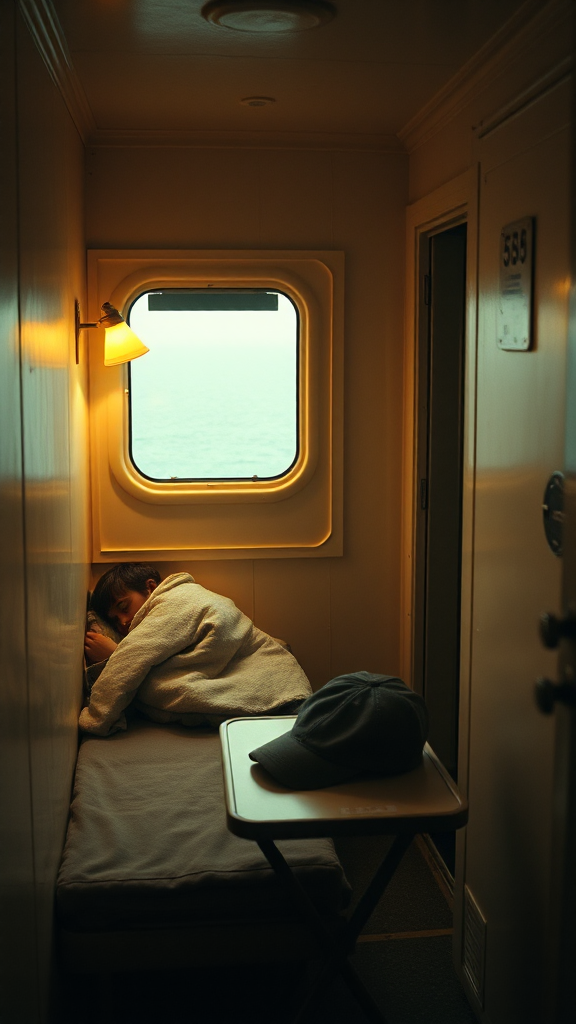
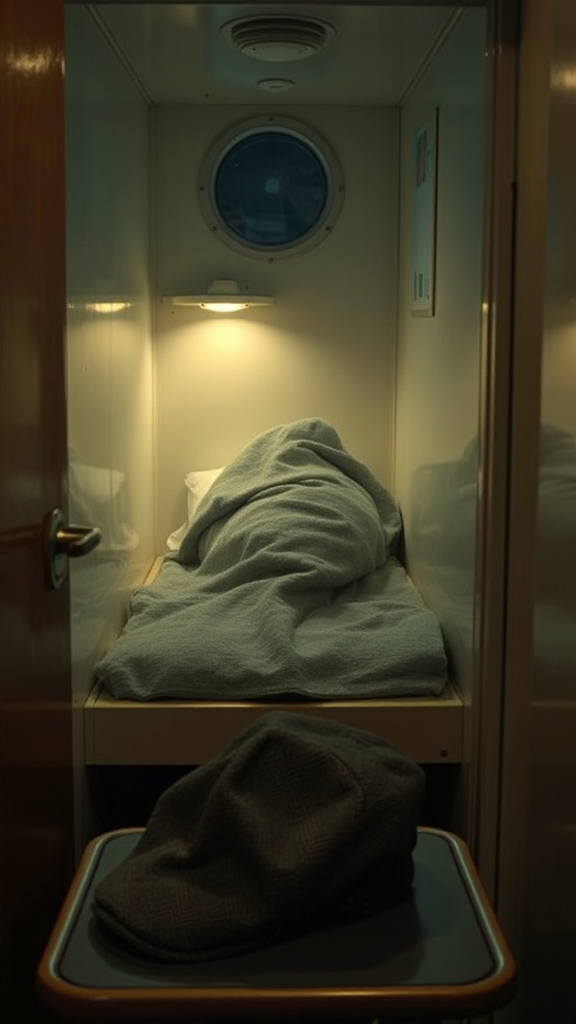
Il traghetto Ep. 1: immagini rifatte e scelte, scritte e correzioni col codice, prompt finali nella storia
Claude-Session: https://claude.ai/code/session_014XUVKwANxcKRkLTerxhK3y

diff --git a/data/horror/ep1_il_traghetto/extra.py b/data/horror/ep1_il_traghetto/extra.py
@@ -346,12 +346,13 @@ def _tessera(big):
 SCRITTE["s04_tessera.png"] = _tessera
 
 
-def cancella_tratti(big, rett, soglia=8):
-    """Toglie dentro il rettangolo solo i tratti più chiari del fondo (le lettere finte), lasciando la targhetta."""
+def cancella_tratti(big, rett, soglia=8, scuri=False):
+    """Toglie dentro il rettangolo solo i tratti più chiari (o più scuri) del fondo: le lettere finte, non la targhetta."""
     x0, y0, x1, y1 = (np.float32(rett) * K).astype(int)
     z = cv2.cvtColor(np.clip(big[y0:y1, x0:x1], 0, 255).astype(np.uint8), cv2.COLOR_BGR2GRAY).astype(np.float32)
     m = np.zeros(big.shape[:2], np.uint8)
-    m[y0:y1, x0:x1] = ((z > np.median(z) + soglia) * 255).astype(np.uint8)
+    tratti = (z < np.median(z) - soglia) if scuri else (z > np.median(z) + soglia)
+    m[y0:y1, x0:x1] = (tratti * 255).astype(np.uint8)
     m = cv2.dilate(m, np.ones((7, 7), np.uint8))
     return cv2.inpaint(np.clip(big, 0, 255).astype(np.uint8), m, 9, cv2.INPAINT_TELEA).astype(np.float32)
 
@@ -384,6 +385,60 @@ def _led_rosso(big, cx, cy, r):
 
 
 SCRITTE["sA_spalla_porta.png"] = lambda big: _led_rosso(_led_rosso(big, 466, 303, 55), 543, 313, 22)
+
+
+# --- inquadratura 8: la nave spenta se ne va: via le due luci che il modello le ha lasciato acceso
+def _spegni(big, punti):
+    """Le luci diventano nebbia: si riempiono col colore della nebbia intorno (inpaint) e si fondono piano."""
+    yy, xx = np.mgrid[0:SH, 0:SW].astype(np.float32)
+    m = np.zeros((SH, SW), np.uint8); a = np.zeros((SH, SW), np.float32)
+    for x, y, r in punti:
+        d2 = (xx - x * K) ** 2 + (yy - y * K) ** 2
+        m[d2 < (r * K) ** 2] = 255; a = np.maximum(a, np.exp(-d2 / (2 * (r * K * 0.55) ** 2)))
+    pic = cv2.resize(np.clip(big, 0, 255).astype(np.uint8), (SW // 4, SH // 4), interpolation=cv2.INTER_AREA)
+    nebbia = cv2.inpaint(pic, cv2.resize(m, (SW // 4, SH // 4)), 12, cv2.INPAINT_TELEA)
+    nebbia = cv2.GaussianBlur(cv2.resize(nebbia, (SW, SH), interpolation=cv2.INTER_CUBIC).astype(np.float32), (0, 0), 6)
+    return big * (1 - a[..., None]) + nebbia * a[..., None]
+
+
+SCRITTE["s08_poppa_nebbia.png"] = lambda big: _spegni(big, [(247, 517, 52), (377, 517, 52)])
+
+
+# --- inquadratura 10: la tessera davanti al lettore (via la finta scritta rossa sul muro, banda blu e «512» sulla tessera)
+T10 = [(245, 393), (434, 380), (445, 501), (255, 515)]
+
+
+def disegno_tessera(w=1000, h=640):
+    from PIL import Image, ImageDraw
+    im = Image.new("RGBA", (w, h), (0, 0, 0, 0)); d = ImageDraw.Draw(im)
+    d.rectangle([0, int(h * 0.56), w, int(h * 0.76)], fill=NAVY + (255,))
+    f = _adatta("512", "Black", h * 0.34, w * 0.5)
+    d.text((w / 2, h * 0.3), "512", font=f, fill=NAVY + (255,), anchor="mm")
+    return im
+
+
+def _serratura(big):
+    big = cancella(big, (499, 214, 523, 306))
+    m = maschera_carta(big, T10, pelle=4, morbido=1.5)
+    pollice = np.zeros((SH, SW), np.uint8)
+    cv2.fillPoly(pollice, [(np.float32([(286, 448), (350, 446), (352, 520), (284, 524)]) * K).astype(np.int32)], 1)
+    m = m * (1 - cv2.GaussianBlur(pollice.astype(np.float32), (0, 0), 2.5))
+    return stampa(big, disegno_tessera(), T10, m, luce=1.0)
+
+
+SCRITTE["s10_serratura.png"] = _serratura
+
+
+# --- inquadratura 11: i pugni sulla porta: la targhetta scura diventa «512» (via la finta scritta)
+P11 = [(247, 386), (346, 386), (346, 427), (247, 427)]
+
+
+def _pugni(big):
+    big = cancella_tratti(big, (250, 388, 344, 426), 10, scuri=True)
+    return stampa(big, disegno_numero("512", 600, 250, CREMA, "Bold", 0.78), P11, luce=1.6)
+
+
+SCRITTE["s11_pugni.png"] = _pugni
 
 
 def scritte(solo=None):

diff --git a/data/horror/storie/11_il_traghetto.md b/data/horror/storie/11_il_traghetto.md
@@ -19,7 +19,7 @@
 
 **Indizi** (tutti visibili prima della rivelazione)
 - Ep. 1, inq. 1: sul biglietto c'è scritto FENU DARIO, cabina 512, e sotto c'è un secondo biglietto, FENU EFISIO. La voce non legge i nomi.
-- Ep. 1, inq. 2: sulla rampa, tra i camion, una sagoma col cappuccio grigio si infila sotto un telone (il clandestino).
+- Ep. 1, inq. 2: sulla rampa, tra i camion telonati, una piccola sagoma scura che non sale con gli altri (il clandestino).
 - Ep. 1, inq. 3–4: il padre dorme nella 512, la coppola è sul tavolino; in tasca ti porti solo la tessera 512.
 - Ep. 2: l'ultima volta che il narratore dice «tuo padre». Ep. 4: «stanotte cercavi qualcuno. Chi?».
 - Ep. 2: il traghetto illuminato che si allontana e il nome della nave scritto al contrario sul salvagente.
@@ -67,8 +67,8 @@ Nessuna morte con riavvolgimento: la storia è una sola e ogni scelta cambia sol
 | # | Voce | Si vede | Suono |
 |---|---|---|---|
 | 1 | Hai un biglietto per la Sardegna. Non ci arriverai. | Soggettiva dall'alto: la tua mano sinistra (manica blu, orologio) regge due biglietti sovrapposti sotto la luce arancione dei lampioni del molo. Dietro, sfocato, il portellone aperto del traghetto. Lento avanzamento sui biglietti. TESTO A SCHERMO: «LINEE DEL MAESTRALE · M/N TRAMONTANA · LIVORNO → OLBIA · 22:30 · PASSEGGERO: FENU DARIO · CABINA 512»; sotto spunta «PASSEGGERO: FENU EFISIO». | Sirena lunga di nave, gabbiani lontani, motori al minimo. |
-| 2 | Livorno, ultima nave della sera. Sali a bordo con tuo padre. | Campo lungo dal basso della rampa: il traghetto bianco con la fascia blu, il portellone illuminato. Di spalle, un vecchio con coppola grigia, cappotto marrone e valigia color cuoio sale davanti a te. Sullo sfondo, tra i camion, una piccola sagoma col cappuccio grigio si infila sotto il telone di un rimorchio. Camera a mano che sale la rampa. | Passi sulla rampa di ferro, camion in manovra, catene. |
-| 3 | In cabina, lui si addormenta subito. Tu no. | Interno cabina stretta, luce calda della lampada da lettura: nella cuccetta bassa una sagoma sotto la coperta, girata verso la parete. Sul tavolino la coppola grigia. Sulla porta socchiusa la targhetta 512. Camera ferma, leggero rollio. | Ronzio dei motori, respiro lento di chi dorme, un cigolio. |
+| 2 | Livorno, ultima nave della sera. Sali a bordo con tuo padre. | Campo lungo dal basso della rampa: il traghetto bianco con la fascia blu, il portellone illuminato. Di spalle, un vecchio con coppola grigia, cappotto marrone e valigia color cuoio sale davanti a te. Sullo sfondo, tra i camion telonati, una piccola sagoma scura che non sale con gli altri. Camera a mano che sale la rampa. | Passi sulla rampa di ferro, camion in manovra, catene. |
+| 3 | In cabina, lui si addormenta subito. Tu no. | Interno cabina stretta vista dalla porta, luce calda della lampada: nella cuccetta bassa una sagoma tutta sotto la coperta, girata verso la parete. In primo piano, sul tavolino, la coppola grigia. Camera ferma, leggero rollio. | Ronzio dei motori, respiro lento di chi dorme, un cigolio. |
 | 4 | Prendi la tessera. | Dettaglio: la tua mano prende dal tavolino una tessera bianca con la banda blu. TESTO A SCHERMO: «512». Lento avanzamento. | Il cartoncino che scivola sul tavolino. |
 | 5 | Esci sul ponte. | Di spalle, in controluce: la tua sagoma esce da una porta di ferro sul ponte esterno, oltre la soglia solo nebbia illuminata. La camera ti segue. | Porta pesante, il vento che entra. |
 | 6 | Fuori c'è solo nebbia. | Soggettiva sul ponte esterno di poppa: le tue mani sul corrimano bagnato, oltre la ringhiera solo nebbia color latte accesa dai fari della nave. La camera avanza piano verso il vuoto. | Vento, mare contro lo scafo, corno da nebbia lontano. |
@@ -94,22 +94,23 @@ Suffisso di stile, da aggiungere identico in coda a ogni prompt:
 
 Negativo comune: `face, portrait, crowd, text, letters, logo, extra fingers, deformed hands, cartoon, illustration, oversaturated`
 
-1. `POV from above of a single left hand in a dark navy wool sweater sleeve, steel wristwatch with black leather strap, holding two overlapping blank cream paper tickets with a midnight-blue band on top, orange sodium dock lamps, blurred open bow door of a white ferry in the background at night`
-2. `Low-angle wide shot from the bottom of a steel loading ramp at night, white car ferry with a midnight-blue stripe and a brightly lit open bow door, an old man seen from behind in a grey flat cap and brown overcoat carrying a tan hard suitcase walking up the ramp, parked trucks on the side, a small hooded figure in a grey hoodie slipping under a trailer tarpaulin far in the background`
-3. `Interior of a narrow ferry cabin, warm reading lamp, lower bunk with a sleeping figure under a blanket turned towards the wall, a grey flat cap on a small fold-down table, cream walls, half-open cabin door with a blank number plate`
+1. `POV looking down from above at a single left hand in a dark navy wool sweater sleeve with a steel wristwatch with black leather strap, holding two large overlapping blank cream paper tickets with a plain midnight-blue band along the top edge, the tickets held flat in the middle of the frame, orange sodium dock lamps, blurred open bow door of a white ferry in the background at night`
+2. `Low-angle wide shot from the bottom of a steel loading ramp at night, a white car ferry with a midnight-blue stripe and a brightly lit open bow door, an old man seen from behind in a grey flat cap and a long brown overcoat walking up the ramp away from the camera carrying a tan hard suitcase, parked truck trailers covered by grey tarpaulins on the right, far in the background between the trucks a tiny hooded figure in a grey hoodie crawling under a tarpaulin, half hidden in shadow`
+3. `Interior of a narrow ferry cabin at night seen from the door, warm reading lamp, a lower bunk with a sleeping person completely hidden under a grey wool blanket pulled over the head, only the shape of a body under the blanket turned towards the wall, a grey tweed flat cap lying on a small fold-down table in the foreground, cream walls, dark porthole`
 4. `Extreme close-up of a hand in a navy wool sleeve picking up a blank white plastic key card with a midnight-blue band from a small cabin table, warm lamp light, soft shadows`
-5. `POV on the open stern deck of a ferry at night, two hands in navy wool sleeves resting on a wet steel handrail, beyond the railing nothing but thick milk-white fog lit by the ship's floodlights, wet green deck`
-6. `POV wide shot from a ferry railing at night, the bow of an identical white ferry with a midnight-blue stripe emerging from dense fog very close, all its lights off, black portholes, empty decks, ghostly and silent, no wake`
-7. `The dark stern of an unlit ferry dissolving into thick fog at night, in the foreground two hands gripping a wet handrail, the floodlight glow turning sickly green`
-8. `POV through a glass door into a deserted ferry lounge, long rows of empty reclining seats, no luggage, no blankets, bottle-green carpet, only greenish emergency lights, condensation on the windows, central aisle vanishing into darkness`
-9. `Close-up of a hand holding a blank white key card against an electronic cabin door lock, small red LED glowing, cream door, long narrow cabin corridor out of focus behind, greenish emergency light`
-10. `POV of two fists in navy wool sleeves pounding on a cream ferry cabin door with a blank brass number plate, red LED on the lock, greenish emergency light, slight motion blur`
-11. `Wide shot from the far end of a long narrow ferry cabin corridor, bottle-green carpet, rows of identical closed doors, one small male silhouette seen from behind standing in front of a door, one flickering greenish emergency light, deep shadows`
-12. `Low-angle close-up of a grey horn loudspeaker with a metal grille mounted on the ceiling of a ferry corridor, greenish emergency light, dust in the air, condensation drops on the metal`
-13. `The shadow of a man cast on a cream cabin door with a blank number plate, a hand in a navy wool sleeve slowly letting go of the door handle, red LED on the lock, greenish light`
-14. Scheda di scelta — A: `Backlit shoulder and arm in a navy wool sweater braced against a cream cabin door, red lock LED glowing, greenish emergency light` · B: `At the end of a greenish-lit ferry corridor, a deserted dark wood reception desk with an empty key rack and a black desk microphone with a red button`
+5. `Seen from behind, a man in a dark navy wool sweater and dark jeans stepping out through a heavy open steel door onto the outer deck of a ferry at night, beyond the door only thick milk-white fog lit by floodlights, warm light from the corridor behind him`
+6. `POV on the open stern deck of a ferry at night, two hands in navy wool sleeves resting on a wet steel handrail, beyond the railing nothing but thick milk-white fog lit by the ship's floodlights, wet green deck`
+7. `POV from the railing of a ferry at night, very close alongside, the huge side of an identical white ferry with a midnight-blue stripe gliding past in dense fog, completely dark, no lights at all, rows of black empty portholes, deserted decks, the dark hull fills the right half of the frame and fades into the fog on the left, ghostly and silent`
+8. `The dark stern of an unlit ferry dissolving into thick fog at night, in the foreground two hands gripping a wet handrail, the floodlight glow turning sickly green`
+9. `POV through a glass door into a deserted ferry lounge, long rows of empty reclining seats, no luggage, no blankets, bottle-green carpet, only greenish emergency lights, condensation on the windows, central aisle vanishing into darkness`
+10. `Close-up of a hand pressing a blank white plastic key card flat against the electronic card reader of a cream cabin door, the small LED on the reader glowing red, long narrow ferry cabin corridor out of focus behind, greenish emergency light`
+11. `POV of two fists in navy wool sleeves pounding on a plain cream ferry cabin door, a small blank brass plate on the door at eye level, a simple card lock with a small red light under the handle, greenish emergency light, slight motion blur`
+12. `Wide shot from the far end of a long narrow ferry cabin corridor, bottle-green carpet, rows of identical closed doors, one small male silhouette seen from behind standing in front of a door, one flickering greenish emergency light, deep shadows`
+13. `Low-angle close-up of a grey horn loudspeaker with a metal grille mounted on the ceiling of a ferry corridor, greenish emergency light, dust in the air, condensation drops on the metal`
+14. `The shadow of a man cast on a cream cabin door with a blank brass number plate, a hand in a navy wool sleeve slowly letting go of the door handle, red LED on the lock, greenish light`
+15. Scheda di scelta — A: `Backlit shoulder and arm in a navy wool sweater braced against a cream cabin door, red lock LED glowing, greenish emergency light` · B: `At the end of a greenish-lit ferry corridor, a deserted dark wood reception desk with an empty key rack and a black desk microphone with a red button`
 
-Tutte le scritte (biglietti, «512», targhette) si aggiungono in montaggio.
+Tutte le scritte (biglietti, «512», targhette) si aggiungono in montaggio: `data/horror/ep1_il_traghetto/extra.py` (immagini *_scritte.png).
 
 ## Episodio 2 — Non è la tua nave
 
